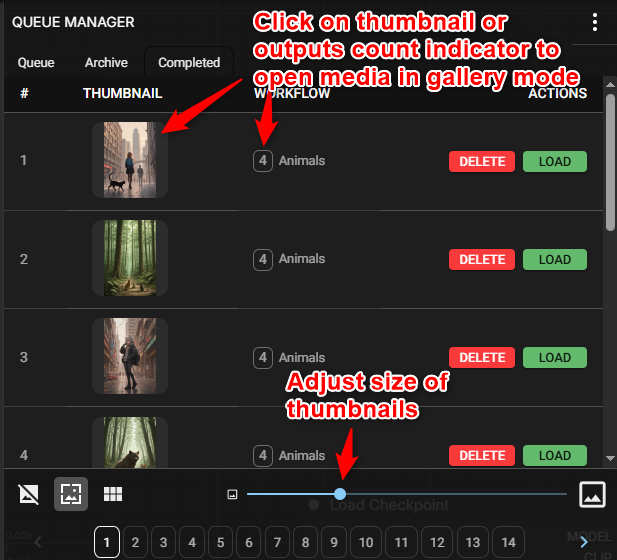
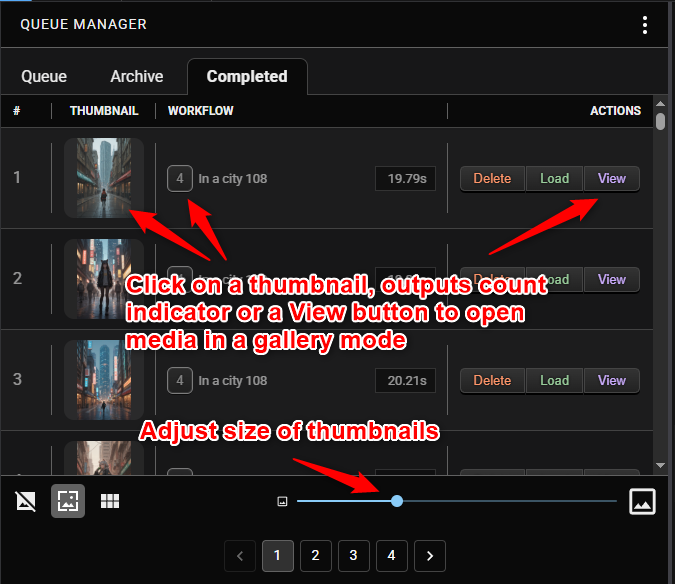
- Updated manual imagery; - Styling fixes; - Splash screen copy update; - Link to manual in top menu; - Release notes update;

diff --git a/src/gui/styles/_queue.scss b/src/gui/styles/_queue.scss
@@ -106,7 +106,9 @@ header.header {
       width: 100%;
 
       &:after {
-        content: none !important;
+        .route-completed & {
+          content: none !important;
+        }
       }
     }
   }
@@ -274,19 +276,22 @@ header.header {
         }
 
         &:after {
-          content: none;
+          .route-completed & {
+            content: none !important;
+          }
         }
       }
 
       &.meta-info {
         width: 1%;
+        padding-right: 12px;
       }
 
       .execution-time {
         margin-left: auto;
         font-size: 0.8rem;
         border: 1px solid var(--color-neutral-800);
-        padding: 2px 6px;
+        padding: 2px 8px;
         background-color: var(--background);
         white-space: nowrap;
         width: 100%;
@@ -322,7 +327,7 @@ header.header {
 
     &:has(+ tr.gallery:hover) {
       background: var(--background-faded);
-      color: var(--foreground-faded);
+      color: var(--foreground);
 
       @media (prefers-color-scheme: light) {
         background: var(--background-light);
@@ -637,7 +642,7 @@ button {
 .filters {
   font-size: 0.8rem;
   background-color: var(--background);
-  border-bottom: 1px solid var(--color-neutral-600);
+  border-top: 1px solid #444;
   padding: 15px;
 
   @media (prefers-color-scheme: light) {
@@ -741,7 +746,7 @@ button {
     }
   }
 
-  button {
+  .button {
     display: flex;
     align-items: center;
     gap: 0.3rem;

diff --git a/src/gui/app/components/SplashScreen.jsx b/src/gui/app/components/SplashScreen.jsx
@@ -20,9 +20,14 @@ export function SplashScreen({onClick}) {
         <h3>New style and UI improvements</h3>
         <p>An attempt to make the UI look less motley. </p>
         <p>More functional pagination experience, especially if you hoard tens of pages.</p>
+        <h3>Completion Time</h3>
+        <p>From now on completed jobs will show total execution time.</p>
         <p><br/>
-          For more details check the updated manual on Github: <a href={"https://github.com/QuietNoise/comfyui_queue_manager?tab=readme-ov-file#manual"} target={"_blank"}>Queue Manager Manual</a>.
+          <i>For more details check the updated manual on Github: <a href={"https://github.com/QuietNoise/comfyui_queue_manager?tab=readme-ov-file#manual"} target={"_blank"}>Queue Manager Manual</a>.</i><br/>
+          <i>For full Release Notes view <a href={"https://github.com/QuietNoise/comfyui_queue_manager/blob/main/CHANGELOG.md"} target={"_blank"}>Changelog</a>.</i><br />
+          <i>Leave a feedback or report an issue here <a href={"https://github.com/QuietNoise/comfyui_queue_manager/issues"} target={"_blank"}>Issues</a>. </i>
         </p>
+
       </div>
     </div>
   );

diff --git a/src/gui/app/components/TopMenu.jsx b/src/gui/app/components/TopMenu.jsx
@@ -5,7 +5,8 @@ import {AppContext} from "../internals/app-context";
 
 import AdsClickSharpIcon from '@mui/icons-material/AdsClickSharp';
 import InfoOutlineSharpIcon from '@mui/icons-material/InfoOutlineSharp';
-import Button from "@mui/material/Button";
+import QuizSharpIcon from '@mui/icons-material/QuizSharp';
+
 import {useAppStore} from "../stores/appStore";
 
 export default function TopMenu() {
@@ -62,6 +63,7 @@ export default function TopMenu() {
         className={"top-menu" + (uiState.menuOpen ? ' open' : '')}>
         <div className={"container"}>
           <button type={"button"}  className={"button shiny-button"} onClick={takeOver}><AdsClickSharpIcon /> Take over focus</button>
+          <a className={"button shiny-button"} href={"https://github.com/QuietNoise/comfyui_queue_manager?tab=readme-ov-file#manual"} target={"_blank"}><QuizSharpIcon /> Documentation</a>
           <button type={"button"}  className={"button shiny-button"} onClick={() => {toggleMenu(); openSplash()}}><InfoOutlineSharpIcon /> About Queue Manager</button>
         </div>
       </section>

diff --git a/src/gui/app/components/QueueItemRow.jsx b/src/gui/app/components/QueueItemRow.jsx
@@ -240,7 +240,7 @@ const executionTimeLabel = useMemo(() => {
         */}
         {showGrid ? (
           <tr className="dark:odd:bg-neutral-900 odd:bg-neutral-100 gallery">
-            <td colSpan={3} className="px-3 py-1">
+            <td colSpan={4} className="px-3 py-1">
               <div className="flex flex-wrap gap-2 items">
                 {mediaOutputs?.files?.length
                   ? mediaOutputs.files.map((file, fileIndex) => (

diff --git a/README.md b/README.md
@@ -104,6 +104,13 @@ When in the **Queue** tab you can archive individual items by clicking the **Arc
 
 Similarly, when in **Archive** tab you can play archived items by clicking the **Run** button in the actions column or you can play all archived items by clicking the **Run All** button on the bottom of the window.
 
+#### Run at front of the queue
+You can run an item, entire archive or filtered out list of jobs at the front of the pressing and holding the **Shift** while clicking the **Run** or **Run All** buttons.
+
+When holding Shift pressed a small indicator message will appear on top of the window to confirm that the action will run at front of queue.
+
+![shift-pressed.png](readme-img/shift-pressed.png)
+
 ### Export and Import
 
 You can export items from any tab (Queue, Archive, Completed) to a file by clicking the Export Queue/Archive/Completed button on the bottom of the window.
@@ -165,6 +172,7 @@ Typical use case is to connect the `workflow_name` output to a node that accepts
   - **Home**: go to first media item
   - **End**: go to last media item
   - **Escape**: close Gallery view
+  - **T**: toggle thumbnails on / off
 - On the bottom of the Gallery is a progress bar showing your current position in the list of media items. You can also use it to quickly skip to a specific media item by clicking on it.
 ![gallery-view.png](readme-img/gallery-view.png)
 - By default videos are played automatically. You can change that in extension settings (see below).

diff --git a/CHANGELOG.md b/CHANGELOG.md
@@ -1,5 +1,14 @@
 # Release Notes
 
+## v0.1.0
+_Jan 15, 2026_
+### New features and enhancements
+- Major update with focus on providing previews for completed jobs, gallery and UI improvements.
+- A new settings panel is available in **ComfyUI Menu → Settings → Queue Manager** where you can influence certain features of the extension (#11, #17).
+- From now on completed jobs will show total execution time (#3).
+
+
+
 ## v0.0.17
 _Dec 21, 2025_
 ### New features and enhancements
